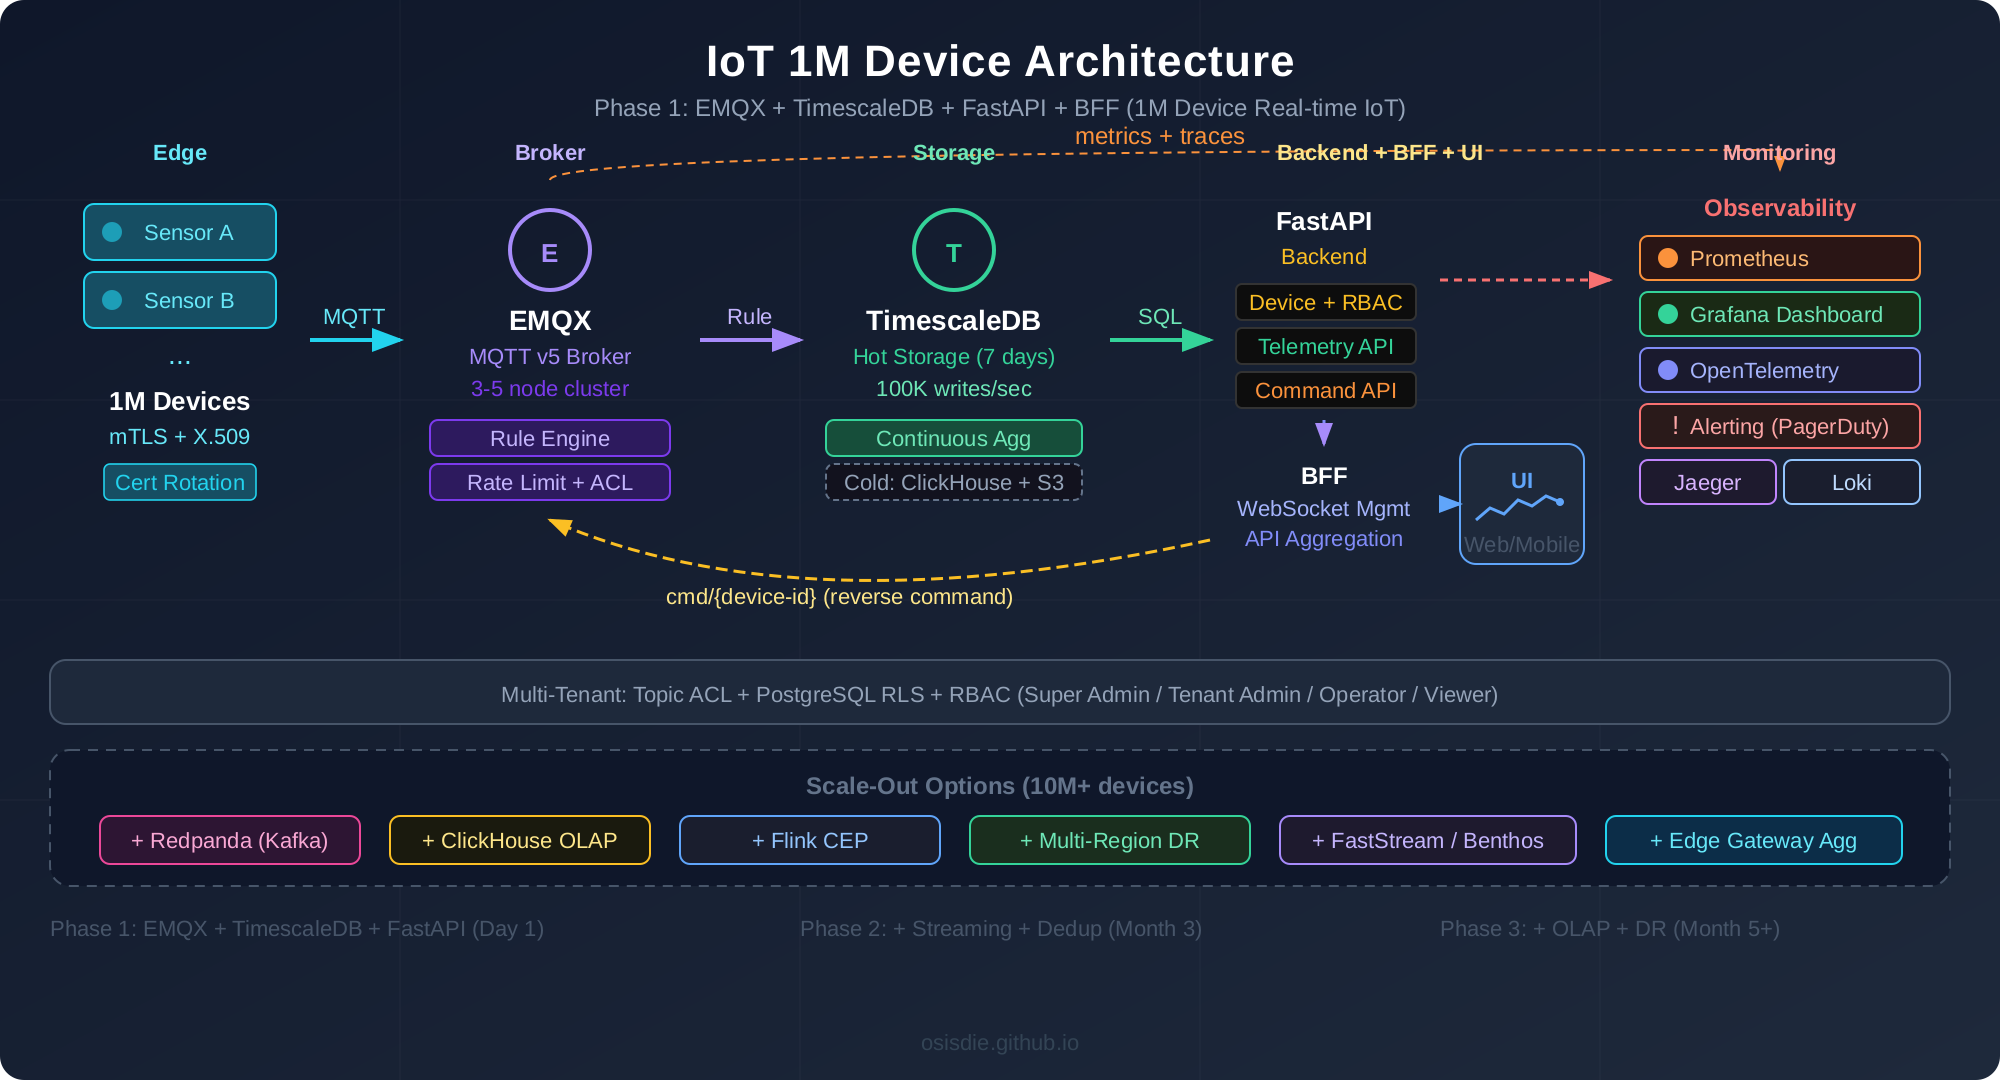
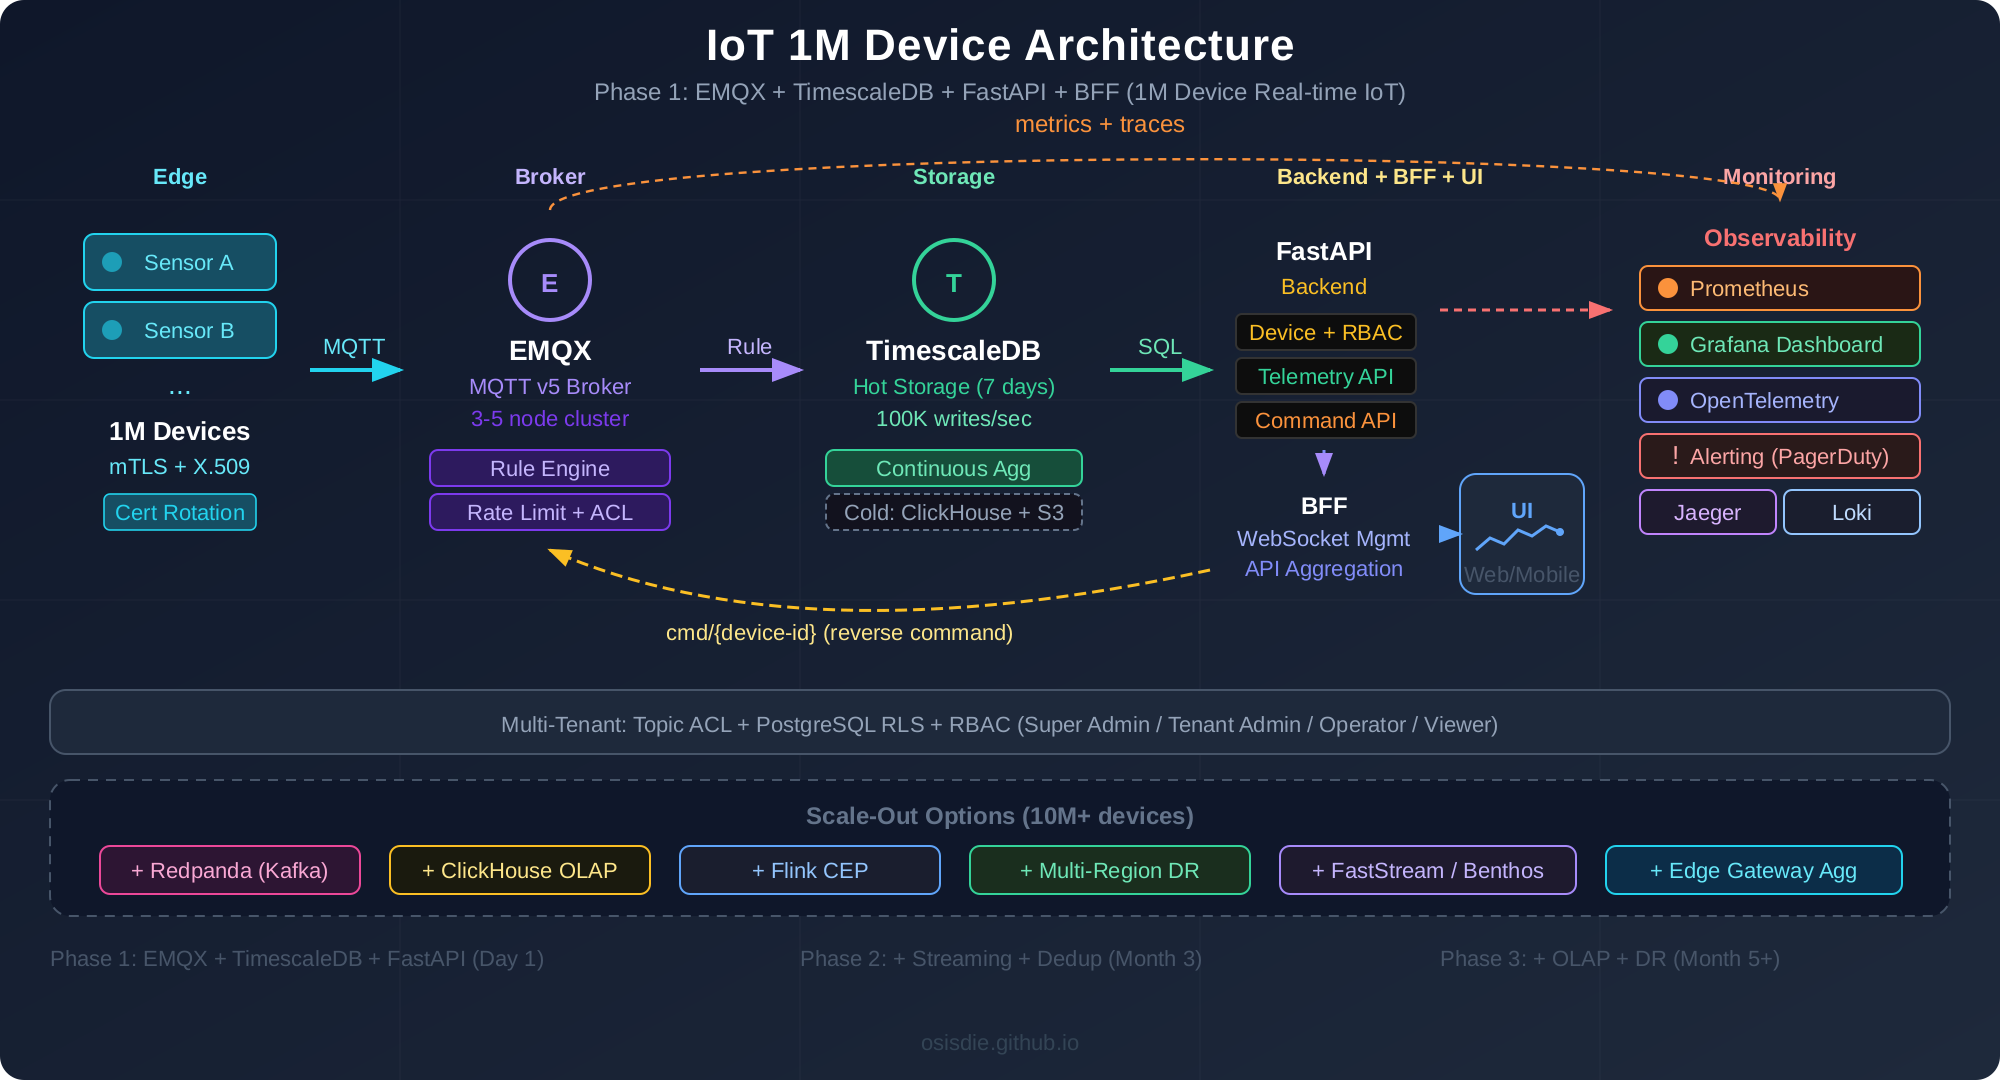
fix: SVG layout — shift content down 15px, fix text/arrow overlap
- metrics+traces label and Monitoring label no longer overlap
- EMQX→Monitoring arrow uses smooth cubic bezier with 25px clearance
- All boxes shifted down 15px for breathing room
- blog-image-reviewer: add text/arrow overlap + curve clearance rules

diff --git a/.claude/agents/blog-image-reviewer.md b/.claude/agents/blog-image-reviewer.md
@@ -28,6 +28,10 @@ Review SVG and PNG files in `assets/img/blog/` for compliance with the project's
 3. **File size** — should be < 500KB
 4. **Chinese text** — read the PNG and visually verify CJK characters render correctly
 
+### SVG Layout
+6. **No text/arrow overlap** — check that `<text>` elements and `<path>`/`<line>` arrows do not share the same Y coordinate range within 15px. Labels near curved arrows are especially prone to overlap. Arrows curving above boxes need at least 20px clearance from the nearest text label.
+7. **Smooth curve clearance** — curved paths (`<path>` with C/Q bezier) should have control points at least 25px above/below the box edges they connect, so the curve visually separates from box borders and labels.
+
 ## How to Run
 
 Search for all SVG/PNG pairs in `assets/img/blog/`:
